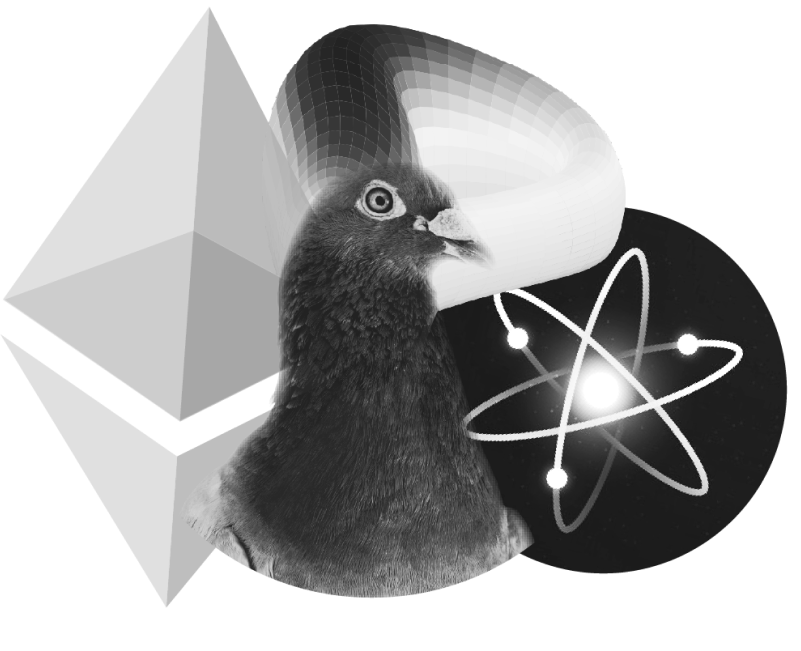
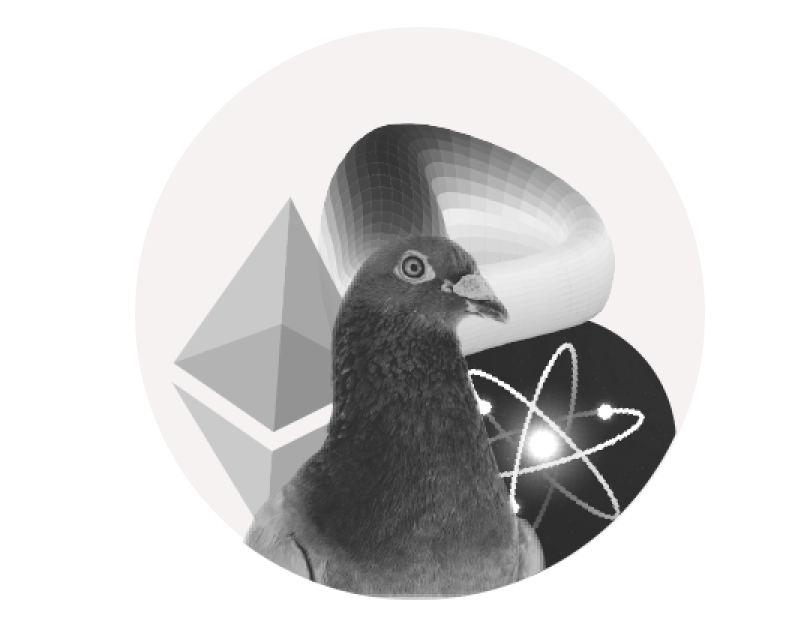
update blog latest view

diff --git a/styles/_pages/_blog.scss b/styles/_pages/_blog.scss
@@ -4,7 +4,7 @@
   .blog-page-images {
     width: 100%;
     max-width: 1200px;
-    margin: 115px auto 20px;
+    margin: 115px auto 100px;
     display: flex;
     justify-content: space-between;
 
@@ -24,14 +24,16 @@
       display: flex;
       flex-direction: column;
       align-items: center;
-      background: #2c2c2c;
-      border-radius: 10px;
-      font-size: 30px;
-      line-height: 40px;
-      color: #eadede;
+      background: #f6f2f2;
+      border: 1.30736px solid #2c2c2c;
+      border-radius: 6.53678px;
+      font-size: 20px;
+      line-height: 27px;
+      color: #2c2c2c;
       font-family: $font-bold;
-      padding-bottom: 88px;
+      padding-bottom: 49px;
       cursor: pointer;
+      position: relative;
 
       @media screen and (max-width: 768px) {
         font-size: 20px;
@@ -50,18 +52,44 @@
         margin-bottom: 40px;
       }
 
-      &:hover {
-        background: #ecc;
-        color: $main_text_color;
-      }
-
       img {
         height: 182px;
-        margin-top: -60px;
+        margin-top: -125px;
 
         @media screen and (max-width: 768px) {
           height: 90px;
           margin-top: -30px;
+        }
+
+        &.hovered {
+          display: none;
+        }
+      }
+
+      &:hover {
+        &:after {
+          position: absolute;
+          content: "";
+          width: calc(100%);
+          height: 30px;
+          margin-left: 15px;
+          margin-bottom: -8px;
+          bottom: 0px;
+          background: #f1d1e5;
+          border: 1.30736px solid #2c2c2c;
+          border-radius: 6.53678px;
+          z-index: -400;
+          height: 100%;
+        }
+
+        img {
+          &.normal {
+            display: none;
+          }
+
+          &.hovered {
+            display: block;
+          }
         }
       }
 
@@ -78,57 +106,93 @@
     width: 100%;
     max-width: 1116px;
     margin: 100px auto;
-    display: flex;
-    flex-flow: row wrap;
-    justify-content: space-between;
+    display: grid;
+    grid-template-columns: repeat(3, 1fr);
+    gap: 56px;
 
     @media screen and (max-width: 1280px) {
       max-width: 100%;
       padding: 0px 30px;
     }
 
+    @media screen and (max-width: 768px) {
+      margin: 50px auto;
+      grid-template-columns: repeat(2, 1fr);
+      gap: 28px;
+    }
+
     @media screen and (max-width: 600px) {
       margin: 50px auto;
+      grid-template-columns: 1fr;
+      gap: 0px;
     }
 
     .blog-latest-item {
-      margin-bottom: 86px;
-      width: calc(50% - 50px);
+      margin-bottom: 89px;
+      background: #f6f2f2;
+      border-radius: 25px;
+      cursor: pointer;
 
-      @media screen and (max-width: 1280px) {
-        width: calc(50% - 20px);
+      &:hover {
+        background: #f0ebeb;
       }
-
-      @media screen and (max-width: 768px) {
-        margin-bottom: 40px;
-      }
-
-      @media screen and (max-width: 600px) {
-        width: 100%;
-      }
-    }
-
-    .blog-latest-date {
-      color: #2c2c2c;
-      font-size: 18px;
-      font-family: "Rockstar-SemiBold";
     }
 
     .blog-latest-image {
       width: 100%;
       height: 300px;
-      border-radius: 15px;
-      border: 2px solid #2c2c2c;
-      margin-top: 18px;
-      object-fit: cover;
+      border-top-left-radius: 25px;
+      border-top-right-radius: 25px;
+
+      img {
+        width: 100%;
+        height: 100%;
+        border-top-left-radius: 25px;
+        border-top-right-radius: 25px;
+        object-fit: cover;
+      }
+    }
+
+    .blog-latest-content {
+      width: 100%;
+      padding: 26px 31px 38px;
+    }
+
+    .blog-latest-date {
+      font-size: 12px;
+      line-height: 15px;
+      text-transform: capitalize;
+      color: #2c2c2c;
     }
 
     .blog-latest-title {
-      font-family: $font-bold;
+      font-family: "RockStar-Semibold";
+      font-size: 16px;
+      line-height: 21px;
+      text-transform: capitalize;
       color: #2c2c2c;
-      font-size: 20px;
-      line-height: 26px;
-      cursor: pointer;
+    }
+
+    .blog-latest-intro {
+      font-weight: 400;
+      font-size: 14px;
+      line-height: 24px;
+      color: #2c2c2c;
+      text-overflow: ellipsis;
+      overflow: hidden;
+      display: -webkit-box;
+      -webkit-line-clamp: 6;
+      -webkit-box-orient: vertical;
+    }
+
+    .blog-latest-read {
+      font-family: "RockStar-Semibold";
+      font-size: 16px;
+      line-height: 21px;
+      text-decoration-line: underline;
+      text-transform: capitalize;
+      color: #2c2c2c;
+      margin-top: 23px;
     }
   }
 

diff --git a/pages/blog/index.tsx b/pages/blog/index.tsx
@@ -12,27 +12,30 @@ mixpanel.init(process.env.MIXPANEL_API_KEY);
 const blogSubMenus = [
   {
     image: "/assets/blog/project-updates.png",
+    imageHovered: "/assets/blog/project-updates-selected.png",
     title: (
       <span>
-        PROJECT
+        Project
         <br />
-        UPDATES
+        Updates
       </span>
     ),
     link: "/blog/project-updates",
   },
   {
     image: "/assets/blog/ama.png",
+    imageHovered: "/assets/blog/ama-selected.png",
     title: <span>AMAS</span>,
     link: "/blog/amas",
   },
   {
     image: "/assets/blog/blockchain-culture.png",
+    imageHovered: "/assets/blog/blockchain-culture-selected.png",
     title: (
       <span>
-        BLOCKCHAIN
+        Blockchain
         <br />
-        CULTURE
+        Culture 
       </span>
     ),
     link: "/blog/blockchain-culture",
@@ -45,6 +48,7 @@ const Blog = () => {
   useEffect(() => {
     const getData = async () => {
       const data = await fetchBlogs();
+      console.log(data)
       setLatestBlog(filterBlogs(data));
     };
 
@@ -60,7 +64,8 @@ const Blog = () => {
           {blogSubMenus.map((menu, index) => (
             <Link href={menu.link} key={`blog-submenu-${index}`}>
               <div className="blog-page-image">
-                <img src={menu.image} />
+                <img className="normal" src={menu.image} />
+                <img className="hovered" src={menu.imageHovered} />
                 {menu.title}
               </div>
             </Link>

diff --git a/components/Blog/BlogList.tsx b/components/Blog/BlogList.tsx
@@ -2,22 +2,28 @@ import React from "react";
 import Link from "next/link";
 
 import { convertDateString2 } from "utils/date";
+import { truncate } from "utils/string";
 
 const BlogList = ({ data }) => (
   <>
     {data.map((blog, index) => (
-      <div className="blog-latest-item" key={`blog-latest-${index}`}>
-        <div className="blog-latest-date">
-          {convertDateString2(blog.content.published_date)}
+      <Link href={`/${blog.full_slug}`}>
+        <div className="blog-latest-item" key={`blog-latest-${index}`}>
+          <div className="blog-latest-image">
+            <img src={`https:${blog.content.image}`} />
+          </div>
+          <div className="blog-latest-content">
+            <div className="blog-latest-date">
+              {convertDateString2(blog.content.published_date)}
+            </div>
+            <h3 className="blog-latest-title">{blog.content.title}</h3>
+            <p className="blog-latest-intro">
+              {truncate(blog.content.intro, 190)}
+            </p>
+            <div className="blog-latest-read">Read More...</div>
+          </div>
         </div>
-        <img
-          className="blog-latest-image"
-          src={`https:${blog.content.image}`}
-        />
-        <Link href={`/${blog.full_slug}`}>
-          <h3 className="blog-latest-title">{blog.content.title}</h3>
-        </Link>
-      </div>
+      </Link>
     ))}
   </>
 );
